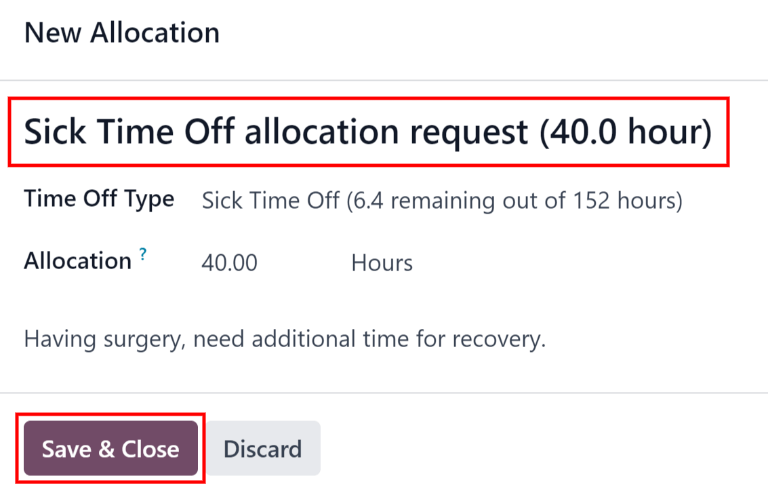
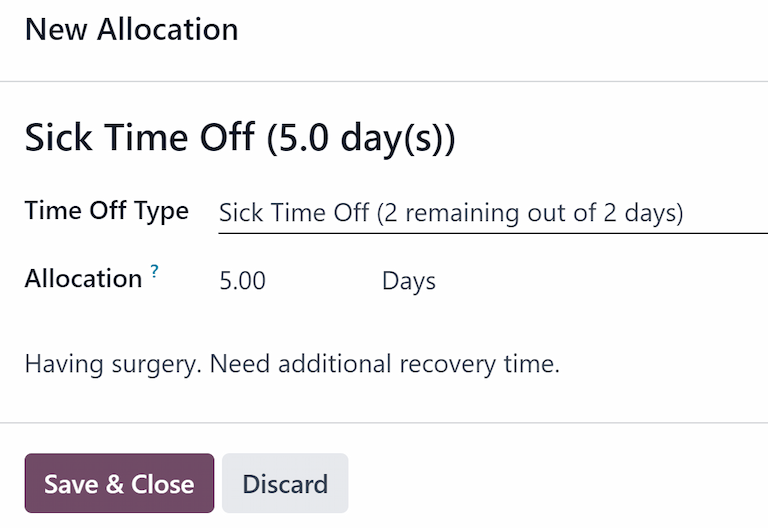
[IMP] Time Off: updating requested allocation doc
closes odoo/documentation#10627

diff --git a/content/applications/hr/time_off/allocations.rst b/content/applications/hr/time_off/allocations.rst
@@ -6,10 +6,10 @@ Once :ref:`time off types <time_off/time-off-types>` and :ref:`accrual plans
 <time_off/accrual-plans>` have been configured, the next step is to *allocate*, or give, time off to
 employees.
 
-The *Allocations* section of the *Time Off* app is **only** visible to users who have either
-:guilabel:`Time Off Officer` or :guilabel:`Administrator` access rights for the *Time Off*
-application. For more information on access rights, refer to the :doc:`access rights
-<../../general/users/access_rights/>` documentation.
+The *Allocations* page of the **Time Off** app is **only** visible to users who have either *Time
+Off Officer* or *Administrator* access rights for the **Time Off** application. For more information
+on access rights, refer to the :doc:`access rights <../../general/users/access_rights/>`
+documentation.
 
 Allocate time off
 =================
@@ -24,16 +24,16 @@ Click :guilabel:`New` to allocate time off, and a blank allocation form appears.
 After entering a name for the allocation on the first blank field of the form, enter the following
 information:
 
-- :guilabel:`Time Off Type`: using the drop-down menu, select the type of time off that is being
+- :guilabel:`Time Off Type`: Using the drop-down menu, select the type of time off that is being
   allocated to the employees.
-- :guilabel:`Allocation Type`: select either :guilabel:`Regular Allocation` or :guilabel:`Accrual
+- :guilabel:`Allocation Type`: Select either :guilabel:`Regular Allocation` or :guilabel:`Accrual
   Allocation`. If the allocation is **not** based on an :ref:`accrual plan
   <time_off/accrual-plans>`, select :guilabel:`Regular Allocation`.
-- :guilabel:`Accrual Plan`: if :guilabel:`Accrual Allocation` is selected for the
+- :guilabel:`Accrual Plan`: If :guilabel:`Accrual Allocation` is selected for the
   :guilabel:`Allocation Type`, the :guilabel:`Accrual Plan` field appears. Using the drop-down menu,
   select the accrual plan with which the allocation is associated. An accrual plan **must** be
   selected for an :guilabel:`Accrual Allocation`.
-- :guilabel:`Validity Period/Start Date`: if :guilabel:`Regular Allocation` is selected for the
+- :guilabel:`Validity Period/Start Date`: If :guilabel:`Regular Allocation` is selected for the
   :guilabel:`Allocation Type`, this field is labeled :guilabel:`Validity Period`. If
   :guilabel:`Accrual Allocation` is selected for the :guilabel:`Allocation Type`, this field is
   labeled :guilabel:`Start Date`.
@@ -48,15 +48,39 @@ information:
 
   If :guilabel:`Accrual Allocation` is selected for the :guilabel:`Allocation Type`, this second
   field is labeled :guilabel:`Run until`.
-- :guilabel:`Allocation`: enter the amount of time that is being allocated to the employees. This
+
+  .. important::
+     If the :guilabel:`Start Date` entered is in the middle of a period of time, such as the middle
+     of the month, Odoo applies the allocation to the beginning or end of the period, depending on
+     the *Accrued Gain Time* entered on the :ref:`accrual plan <time_off/accrual-plans>` (either *At
+     the start of the accrual period*, or *At the end of the accrual period*) instead of the
+     specific date entered.
+
+     For example, an allocation is created, and references an accrual plan that grants time *At the
+     start of the accrual period*, monthly, on the first of the month.
+
+     On the allocation form, the :guilabel:`Allocation Type` is set to :guilabel:`Accrual
+     Allocation`, and the :guilabel:`Start Date` entered is `06/16/24`.
+
+     Odoo's **Time Off** app retroactively applies the allocation to the beginning of the time
+     period entered in the :guilabel:`Start Date`.
+
+     Therefore, this allocation accrues time from `06/01/24`, rather than `06/16/24`.
+
+     Additionally, if on the accrual form, the allocation references an accrual plan that grants
+     time *`At the end of the accrual period*, the allocation accrues time from `7/01/24` rather
+     than `6/18/24`.
+
+- :guilabel:`Allocation`: Enter the amount of time that is being allocated to the employees. This
   field displays the time in either :guilabel:`Hours` or :guilabel:`Days`, depending on how the
   selected :ref:`Time Off Type <time_off/time-off-types>` is configured.
-- :guilabel:`Mode`: using the drop-down menu, select how the allocation is assigned. This selection
+- :guilabel:`Mode`: Using the drop-down menu, select how the allocation is assigned. This selection
   determines who receives the time off allocation. The options are :guilabel:`By Employee`,
   :guilabel:`By Company`, :guilabel:`By Department`, or :guilabel:`By Employee Tag`.
 
-  Depending on what is selected for the :guilabel:`Mode`, the following field is labeled either:
-  :guilabel:`Employees`, :guilabel:`Company`, :guilabel:`Department`, or :guilabel:`Employee Tag`.
+  Depending on what is selected for the :guilabel:`Mode`, the field beneath :guilabel:`Mode` is
+  labeled either: :guilabel:`Employees`, :guilabel:`Company`, :guilabel:`Department`, or
+  :guilabel:`Employee Tag`.
 
   Using the drop-down menu, indicate the specific employees, company, department, or employee tags
   receiving this time off.
@@ -64,7 +88,7 @@ information:
   Multiple selections can be made for either :guilabel:`Employees` or :guilabel:`Employee Tag`.
 
   Only one selection can be made for the :guilabel:`Company` or :guilabel:`Department`.
-- :guilabel:`Add a reason...`: if any description or note is necessary to explain the time off
+- :guilabel:`Add a reason...`: If any description or note is necessary to explain the time off
   allocation, enter it in this field at the bottom of the form.
 
 .. image:: allocations/new-allocation.png
@@ -82,28 +106,28 @@ allocation for additional time. Allocations can be requested in one of two ways,
 :ref:`Dashboard <time_off/dashboard>` or the :ref:`My Allocations <time_off/my-allocations>` view.
 
 To create a new allocation request, click either the :guilabel:`New Allocation Request` button on
-the main *Time Off* dashboard, or the :guilabel:`New` button in the :guilabel:`My Allocations` list
-view. Both buttons open a new allocation request form.
+the main **Time Off** dashboard, or the :guilabel:`New` button in the :guilabel:`My Allocations`
+list view. Both buttons open a new allocation request form.
 
 .. note::
    Both options open a new allocation request form, but when requested from the
-   :guilabel:`Dashboard`, the form appears in a pop-up window. When requested from the
-   :guilabel:`My Allocations` list view, the screen navigates to a new allocation request page,
-   instead.
+   :guilabel:`Dashboard`, the form appears in a pop-up window, and the *Validity Period* field does
+   **not** appear. When requested from the :guilabel:`My Allocations` list view, the screen
+   navigates to a new allocation request page, instead of presenting a pop-up window.
 
 Enter the following information on the new allocation request form:
 
-- :guilabel:`Time Off Type`: select the type of time off being requested for the allocation from the
+- :guilabel:`Time Off Type`: Select the type of time off being requested for the allocation from the
   drop-down menu. After a selection is made, the title updates with the time off type.
-- :guilabel:`Validity Period`: using the calendar selector, select a start and end date the
-  allocation is valid for. By default, the current date populates the first field, and :guilabel:`No
-  Limit` populates the second field. Adjust both of these dates, if desired.
-- :guilabel:`Allocation`: enter the amount of time being requested in this field. The format is
+- :guilabel:`Validity Period`: By default, the current date populates this field, and it is **not**
+  able to be modified. This field **only** appears when requesting an allocatoin from the
+  :guilabel:`My Allocations` view (:menuselection:`Time Off --> My Time --> My Allocations`).
+- :guilabel:`Allocation`: Enter the amount of time being requested in this field. The format is
   presented in either :guilabel:`Days` or :guilabel:`Hours`, depending on how the :guilabel:`Time
   Off Type` is configured. Once this field is populated, the name of the allocation request is
   updated to include the amount of time being requested.
-- :guilabel:`Add a reason...`: enter a description for the allocation request. This should include
-  any details that approvers may need to approve the request.
+- :guilabel:`Add a reason...`: Enter a description for the allocation request in this field. This
+  should include any details that approvers may need to approve the request.
 
 If the request was created from the :guilabel:`Dashboard`, click the :guilabel:`Save & Close` button
 on the :guilabel:`New Allocation` pop-up window to save the information and submit the request.
